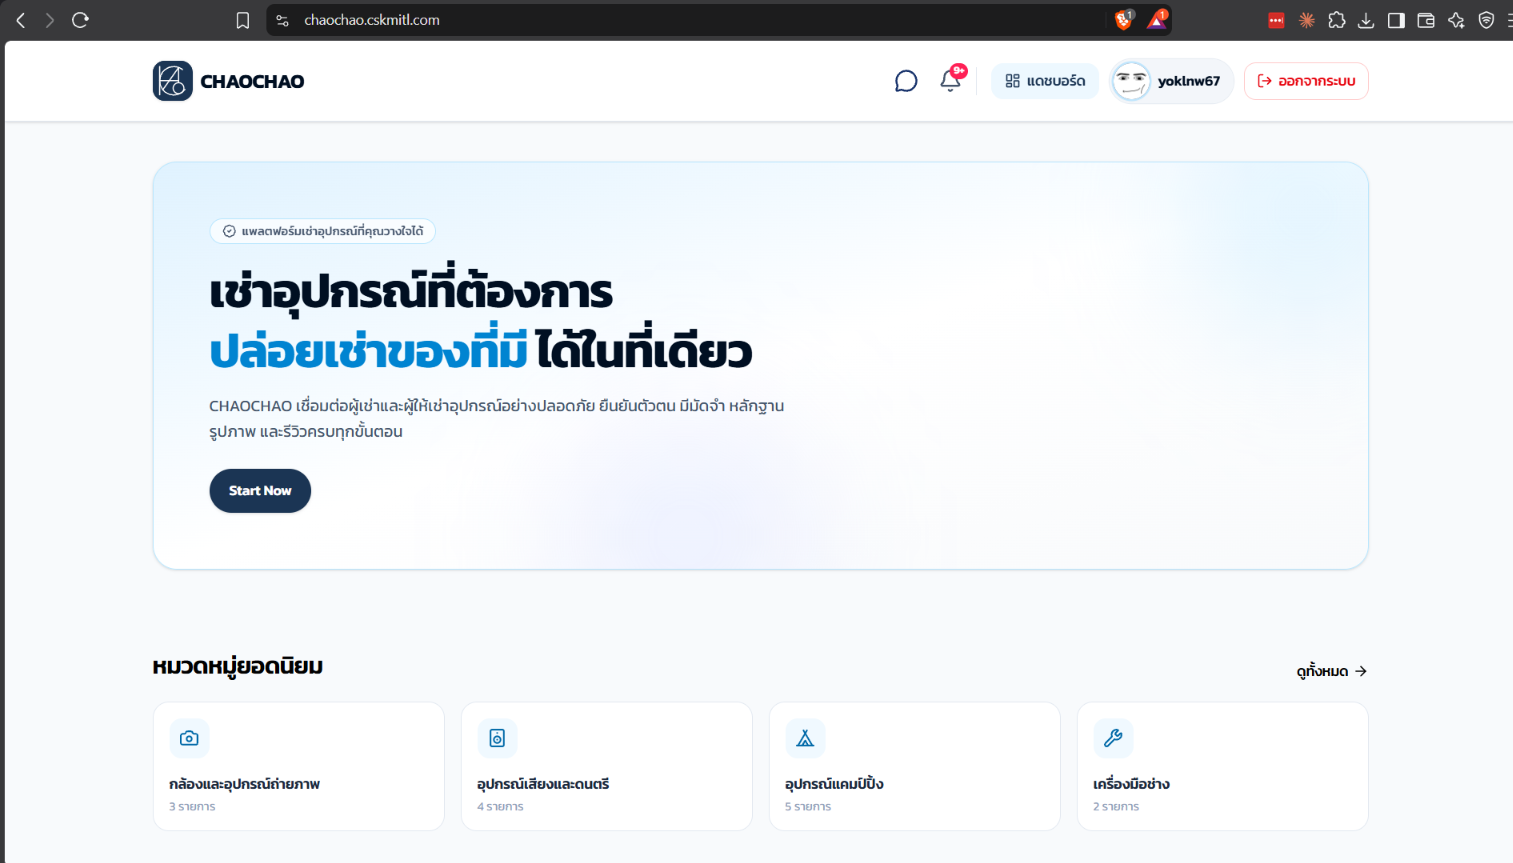
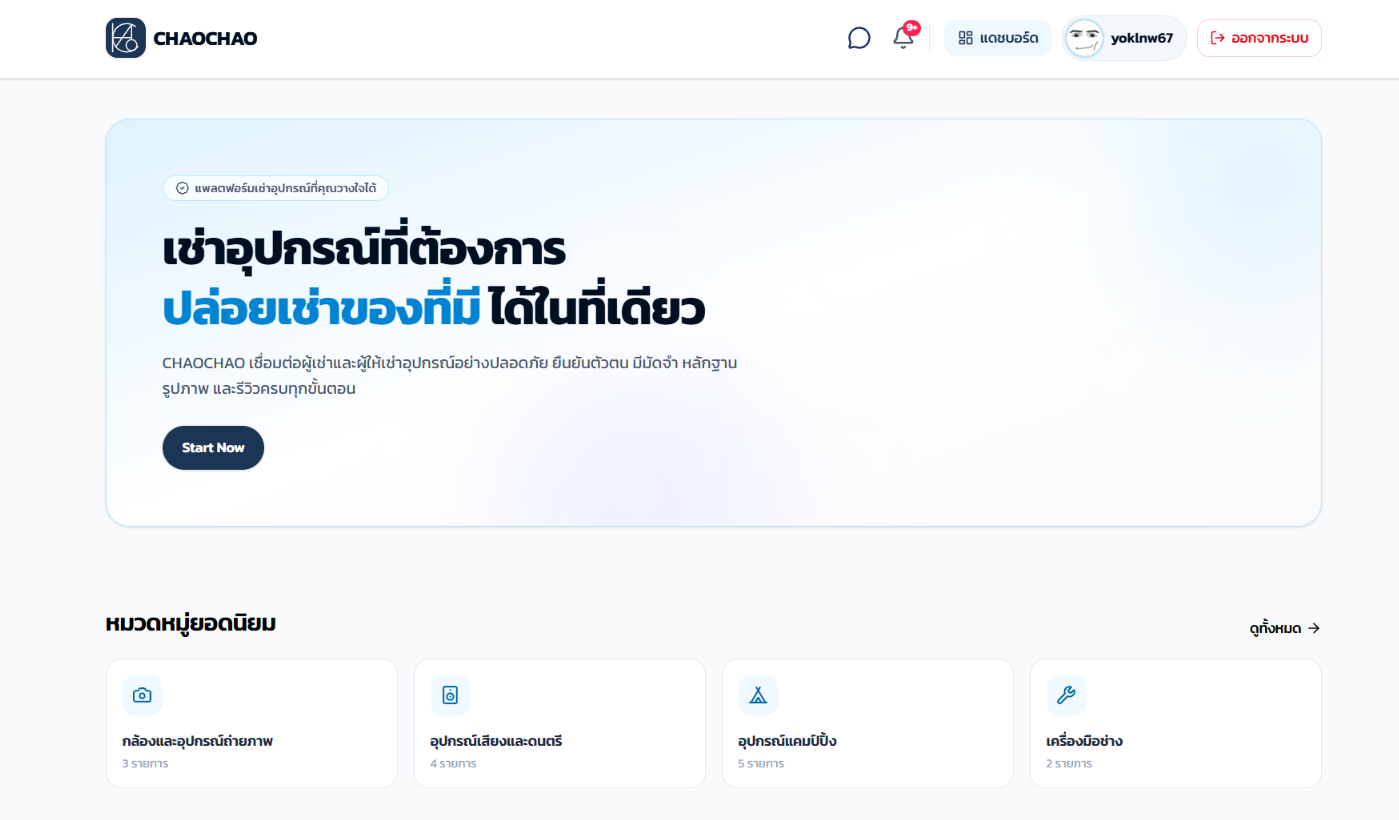
update link

diff --git a/index.html b/index.html
@@ -16,7 +16,7 @@
   <!-- ===== Navbar ===== -->
   <nav id="mainNav" class="navbar navbar-expand-lg sticky-top bg-white border-bottom">
     <div class="container">
-      <a class="navbar-brand brand" href="#top">Meow<span class="text-accent">_</span></a>
+      <a class="navbar-brand brand" href="#top">0x02<span class="text-accent">_</span></a>
       <button class="navbar-toggler" type="button" data-bs-toggle="collapse" data-bs-target="#navMenu"
               aria-controls="navMenu" aria-expanded="false" aria-label="Toggle navigation menu">
         <span class="navbar-toggler-icon"></span>
@@ -76,8 +76,8 @@
             </div>
             <p class="text-secondary mb-2">Player · handle 0x02</p>
             <ul class="mb-0">
-              <li>[Categories you solved, e.g. web, forensics, crypto]</li>
-              <li>[One highlight challenge and how you solved it]</li>
+              <li>It is a Capture the Flag competition co-organized by Thailand’s National Cyber Security Agency and Cisco.</li>
+              <!-- <li>[One highlight challenge and how you solved it]</li> -->
             </ul>
           </div>
 
@@ -180,15 +180,15 @@
 
           <div class="col-md-6 col-lg-4">
             <div class="card h-100 project-card">
-              <img src="images/PrintHub.png" class="card-img-top" alt="">
+              <img src="images/signlan.jpg" class="card-img-top" alt="">
               <div class="card-body d-flex flex-column">
-                <h3 class="h5 card-title">PrintHub</h3>
+                <h3 class="h5 card-title">SignLanguage AI</h3>
                 <div class="mb-2">
-                  <span class="tag">NextJS</span><span class="tag">Supabase</span>
+                  <span class="tag">Python</span><span class="tag">CNN</span>
                 </div>
-                <p class="card-text text-secondary">Platform for discovery PrintShop nearby</p>
+                <p class="card-text text-secondary">AI transform your Sign language to Thai Alphabets</p>
                 <div class="mt-auto d-flex gap-2">
-                  <a href="https://printhub.cskmitl.com/" class="btn btn-sm btn-outline-dark">Read more</a>
+                  <a href="https://github.com/The1975z/Signlanguage-AI" class="btn btn-sm btn-outline-dark"><i class="bi bi-github me-1"></i>Repository</a>
                 </div>
               </div>
             </div>
@@ -245,7 +245,7 @@
               </div>
             </a>
           </div>
-          <div class="col-md-6">
+          <!-- <div class="col-md-6">
             <a href="https://medium.com/@witchakron49/keygenme-py-picoctf-2021-3ff6b83fe3e1" class="card h-100 writeup-card text-decoration-none">
               <div class="card-body p-4">
                 <p class="small text-secondary mb-2">6 May 2026 · Binary Exploit</p>
@@ -253,7 +253,7 @@
                 <p class="text-secondary mb-0">Compile assembly Code with your eyes!</p>
               </div>
             </a>
-          </div>
+          </div> -->
         </div>
       </div>
     </section>
